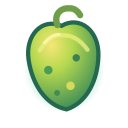
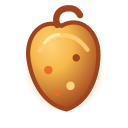
genesis_0.3_Cap7V14

diff --git a/src/game/chapter07/macacoEsporos.test.js b/src/game/chapter07/macacoEsporos.test.js
@@ -17,6 +17,9 @@ const troop = (id, x, row = 1, extra = {}) => ({ id, x, y: row * 96 + 48, row, h
 describe("Macaco de Esporos", () => {
   it("registers the exact low-health support configuration", () => {
     expect(ENEMIES.macacoEsporos).toMatchObject({ hp: 30, speed: 25, damage: 3, attackEveryMs: 1450, baseDamage: 7, threat: 28, canAttackConvoy: false });
+    expect(ENEMIES.macacoEsporos.animationFrameMs).toEqual({ idle: 160, walking: 140 });
+    expect(ENEMIES.macacoEsporos.attackVisual).toEqual({ durationMs: 760, impactMs: 430 });
+    expect(ENEMIES.macacoEsporos.sporeFruit).toMatchObject({ firstCastDelayMs: 3800, cooldownMs: 9000, interruptCooldownMs: 3000, castDurationMs: 1280, releaseMs: 640, projectileSpeed: 360, confusionMinMs: 1600, confusionMaxMs: 1900, postConfusionImmunityMs: 2800 });
     expect(ENEMIES.macacoEsporos.assetStates).toEqual(["idle", "walking", "attack", "sporeThrow"]);
   });
   it("prefers an operational escort with the largest cluster, then a grouped target", () => {
@@ -33,38 +36,54 @@ describe("Macaco de Esporos", () => {
     units[3].sporeConfusedUntil = 9999;
     expect(selectMacacoEsporosTarget(r, enemy, ENEMIES.macacoEsporos).id).not.toBe("three-b");
   });
-  it("uses a non-additive confusion state that disables attacks and operational escort", () => {
+  it("uses a non-additive confusion state with a real post-confusion immunity window", () => {
     const session = { elapsed: 100, chapterSevenMetrics: {} }; const target = troop("escort", 100, 1, { attackReadyAt: 150 });
-    expect(applySporeConfusion(session, target, 1800)).toBe(true);
+    expect(applySporeConfusion(session, target, 1800, 2800)).toBe(true);
+    expect(target).toMatchObject({ sporeConfusedUntil: 1900, sporeImmunityUntil: 4700 });
     expect(isSporeConfused(target, 500)).toBe(true); expect(isEscortOperational(target, { elapsed: 500 })).toBe(false);
-    const until = target.sporeConfusedUntil; applySporeConfusion(session, target, 100); expect(target.sporeConfusedUntil).toBe(until);
+    const until = target.sporeConfusedUntil; session.elapsed = 900;
+    expect(applySporeConfusion(session, target, 100, 2800)).toBe(false);
+    expect(target.sporeConfusedUntil).toBe(until);
+  });
+  it("prevents three nearby Macacos from maintaining a permanent confusion lock", () => {
+    const session = { elapsed: 0, chapterSevenMetrics: {} }; const target = troop("escort", 100);
+    expect(applySporeConfusion(session, target, 1800, 2800)).toBe(true);
+    for (const elapsed of [900, 2500]) {
+      session.elapsed = elapsed;
+      expect(applySporeConfusion(session, target, 1800, 2800)).toBe(false);
+    }
+    expect(target.sporeConfusedUntil).toBe(1800);
+    session.elapsed = 4600;
+    expect(applySporeConfusion(session, target, 1800, 2800)).toBe(true);
   });
   it("applies an AoE once, ignores structures and emits a cloud impact", () => {
     const units = [troop("a", 200), troop("adjacent", 310), troop("structure", 204, 1, { structure: true })]; const r = runtime(units, 1000);
     r.session.sporeFruits.push({ id: "fruit", active: true, targetX: 200, targetY: 144, targetRow: 1, impactAt: 900, radiusTiles: 1.15, confusionMinMs: 1800, confusionMaxMs: 2200, cloudVisualMs: 950 });
     const events = []; updateSporeField(r.session, events);
-    expect(units[0].sporeConfusedUntil).toBe(3000); expect(units[1].sporeConfusedUntil).toBe(3000); expect(units[2].sporeConfusedUntil).toBeUndefined();
+    expect(units[0].sporeConfusedUntil).toBe(3000); expect(units[1].sporeConfusedUntil).toBe(3000); expect(units[0].sporeImmunityUntil).toBe(5800); expect(units[2].sporeConfusedUntil).toBeUndefined();
     expect(events.some((event) => event.type === "sporeFruitImpact")).toBe(true); expect(r.session.sporeClouds).toHaveLength(1);
   });
   it("starts casting after the initial delay and cancels a death-before-release naturally", () => {
     const r = runtime([troop("escort", 260)], 0); const config = ENEMIES.macacoEsporos;
     const enemy = { id: "m", x: 500, y: 144, row: 1, dead: false, moving: true, attackReadyAt: Infinity, ...macacoEsporosBehavior.createState(r.session, {}, config) };
-    r.elapsed = 2800; r.session.elapsed = 2800;
+    r.elapsed = 3800; r.session.elapsed = 3800;
     macacoEsporosBehavior.update(r, enemy, config, 16, []); expect(enemy.sporeState).toBe("sporeCast");
     enemy.dead = true; macacoEsporosBehavior.update(r, enemy, config, 16, []); expect(r.session.sporeFruits).toHaveLength(0);
   });
   it("locks the ground position, releases after target death, and cancels a stun before release", () => {
     const r = runtime([troop("escort", 260)], 0); const config = ENEMIES.macacoEsporos;
     const enemy = { id: "m", x: 500, y: 144, row: 1, dead: false, moving: true, attackReadyAt: Infinity, ...macacoEsporosBehavior.createState(r.session, {}, config) };
-    r.elapsed = r.session.elapsed = 2800; macacoEsporosBehavior.update(r, enemy, config, 16, []);
-    const lockedX = enemy.sporeTargetX; r.session.troops[0].dead = true;
-    r.elapsed = r.session.elapsed = 3180; macacoEsporosBehavior.update(r, enemy, config, 16, []);
+    r.elapsed = r.session.elapsed = 3800; macacoEsporosBehavior.update(r, enemy, config, 16, []);
+    const lockedX = enemy.sporeTargetX;
+    r.elapsed = r.session.elapsed = 4439; macacoEsporosBehavior.update(r, enemy, config, 16, []);
+    expect(r.session.sporeFruits).toHaveLength(0);
+    r.elapsed = r.session.elapsed = 4440; macacoEsporosBehavior.update(r, enemy, config, 16, []);
     expect(r.session.sporeFruits[0]).toMatchObject({ targetX: lockedX, targetRow: 1, releaseVisual: { frame: 4 } });
     expect(r.session.sporeFruits[0].startX).toBe(enemy.x - 25);
     expect(r.session.sporeFruits[0].startY).toBe(enemy.y - 46);
     const interrupted = { ...enemy, sporeState: "sporeCast", sporeReleased: false, stunnedUntil: 4000, sporeTargetId: "escort", sporeTargetX: 260, sporeTargetY: 144, sporeTargetRow: 1 };
     r.elapsed = r.session.elapsed = 3500; macacoEsporosBehavior.update(r, interrupted, config, 16, []);
-    expect(interrupted.sporeState).toBe("walking"); expect(interrupted.sporeReadyAt).toBe(5700);
+    expect(interrupted.sporeState).toBe("walking"); expect(interrupted.sporeReadyAt).toBe(6500);
   });
   it("ships 32 distinct transparent 512px runtime frames and anchors", async () => {
     const root = path.resolve(process.cwd(), "src/game/assets/enemy/macacoEsporos"); const hashes = new Set();

diff --git a/src/game/chapter07/sporeFruitRenderer.js b/src/game/chapter07/sporeFruitRenderer.js
@@ -1,6 +1,6 @@
 import { CELL } from "../visualGeometry.js";
 
-const FRAME_MS = 65;
+export const SPORE_FRUIT_FRAME_MS = 110;
 const TRAJECTORY_ARC_PX = CELL.width * 0.58;
 const FRUIT_SIZE = 42;
 
@@ -35,10 +35,11 @@ function getQualityParticleCount(settings = {}) {
 
 export function drawSporeFruit(ctx, fruit, elapsed, frames = [], settings = {}) {
   const { progress, x, y } = getSporeFruitPosition(fruit, elapsed);
-  const frame = frames[Math.min(frames.length - 1, Math.floor(Math.max(0, elapsed - fruit.startedAt) / FRAME_MS))]
+  const frame = frames.length
+    ? frames[Math.floor(Math.max(0, elapsed - fruit.startedAt) / SPORE_FRUIT_FRAME_MS) % frames.length]
     || frames[0]
-    || null;
-  const rotation = settings.reduceMotion ? 0 : progress * Math.PI * 3.5;
+    : null;
+  const rotation = settings.reduceMotion ? 0 : progress * Math.PI * 2.5;
   const seed = fruit.seed ?? hashSeed(fruit.id);
 
   ctx.save();
@@ -48,8 +49,8 @@ export function drawSporeFruit(ctx, fruit, elapsed, frames = [], settings = {}) 
   if (frame) {
     ctx.drawImage(frame, -FRUIT_SIZE / 2, -FRUIT_SIZE / 2, FRUIT_SIZE, FRUIT_SIZE);
   } else {
-    ctx.fillStyle = "#d9cf63";
-    ctx.strokeStyle = "#237d69";
+    ctx.fillStyle = "#E9913A";
+    ctx.strokeStyle = "#9F431F";
     ctx.lineWidth = 2;
     ctx.beginPath(); ctx.ellipse(0, 0, 11, 16, 0, 0, Math.PI * 2); ctx.fill(); ctx.stroke();
   }
@@ -59,7 +60,7 @@ export function drawSporeFruit(ctx, fruit, elapsed, frames = [], settings = {}) 
   if (particles) {
     ctx.save();
     ctx.globalAlpha = 0.28 * (1 - progress);
-    ctx.fillStyle = "#81d8a5";
+    ctx.fillStyle = "#F6A83C";
     for (let index = 0; index < particles; index += 1) {
       const angle = ((seed % 360) * Math.PI / 180) + index * 2.1;
       const distance = 16 + index * 7 + progress * 8;
@@ -81,9 +82,9 @@ export function drawSporeClouds(ctx, clouds = [], elapsed, settings = {}) {
     const progress = clamp01((elapsed - cloud.startedAt) / Math.max(1, cloud.endsAt - cloud.startedAt));
     ctx.save();
     ctx.globalAlpha = 0.42 * (1 - progress);
-    ctx.fillStyle = "#e9913a";
     for (let index = 0; index < 8; index += 1) {
       const angle = index * Math.PI / 4;
+      ctx.fillStyle = index % 2 ? "#F6A83C" : "#E9913A";
       ctx.beginPath();
       ctx.arc(cloud.x + Math.cos(angle) * cloud.radius * .45, cloud.y + Math.sin(angle) * cloud.radius * .25,
         11 + progress * 14, 0, Math.PI * 2);
@@ -98,8 +99,8 @@ export function drawSporeFruitEmissive(ctx, fruits = [], elapsed, settings = {})
     const { progress, x, y } = getSporeFruitPosition(fruit, elapsed);
     ctx.save();
     ctx.globalAlpha = 0.34 * (1 - progress);
-    ctx.fillStyle = "#58d6ba";
-    ctx.shadowColor = "#58d6ba";
+    ctx.fillStyle = "#F59E42";
+    ctx.shadowColor = "#E86F2A";
     ctx.shadowBlur = settings.reduceMotion ? 4 : 10;
     ctx.beginPath(); ctx.arc(x, y, settings.reduceMotion ? 7 : 9, 0, Math.PI * 2); ctx.fill();
     ctx.restore();

diff --git a/src/game/chapter07/sporeField.js b/src/game/chapter07/sporeField.js
@@ -2,14 +2,15 @@ import { CELL } from "../visualGeometry.js";
 
 export const isSporeConfused = (troop, elapsed) => Boolean(troop && elapsed < (troop.sporeConfusedUntil || 0));
 
-export function applySporeConfusion(session, troop, durationMs) {
+export function applySporeConfusion(session, troop, durationMs, postConfusionImmunityMs = 2800) {
   if (!troop || troop.dead || troop.structure || durationMs <= 0) return false;
   const now = session.elapsed;
   const previous = troop.sporeConfusedUntil || 0;
-  // Effects never stack additively: a second fruit only refreshes the longer end time.
-  const next = Math.max(previous, now + durationMs);
-  const extension = Math.max(0, next - Math.max(previous, now));
+  if (now < previous || now < (troop.sporeImmunityUntil || 0)) return false;
+  const next = now + durationMs;
+  const extension = Math.max(0, next - now);
   troop.sporeConfusedUntil = next;
+  troop.sporeImmunityUntil = next + Math.max(0, postConfusionImmunityMs);
   for (const key of ["attackReadyAt", "attackBusyUntil", "attackReleaseAt", "stateEndsAt", "mineReadyAt", "gunReadyAt"]) {
     if (Number.isFinite(troop[key]) && troop[key] > now) troop[key] += extension;
   }
@@ -30,7 +31,8 @@ export function launchSporeFruit(session, enemy, target, config, createId, event
     targetRow: target.row, startedAt: session.elapsed, impactAt: session.elapsed + travelMs,
     releaseVisual: { frame: releaseVisual.frame ?? 4 },
     radiusTiles: spell.radiusTiles, confusionMinMs: spell.confusionMinMs,
-    confusionMaxMs: spell.confusionMaxMs, cloudVisualMs: spell.cloudVisualMs,
+    confusionMaxMs: spell.confusionMaxMs, postConfusionImmunityMs: spell.postConfusionImmunityMs,
+    cloudVisualMs: spell.cloudVisualMs,
   });
   session.chapterSevenMetrics.sporeFruitsThrown += 1;
   events.push({ type: "sporeFruitThrown", sourceEnemyId: enemy.id, targetTroopId: target.id, x: target.x, y: target.y });
@@ -47,7 +49,7 @@ export function updateSporeField(session, events) {
     let newlyConfused = 0;
     for (const troop of affected) {
       const duration = fruit.confusionMinMs + session.rng() * (fruit.confusionMaxMs - fruit.confusionMinMs);
-      if (applySporeConfusion(session, troop, duration)) newlyConfused += 1;
+      if (applySporeConfusion(session, troop, duration, fruit.postConfusionImmunityMs)) newlyConfused += 1;
     }
     session.chapterSevenMetrics.sporeFruitsHit += 1;
     session.chapterSevenMetrics.sporeTroopsConfused += newlyConfused;

diff --git a/src/game/chapter07/sporeFruitRenderer.test.js b/src/game/chapter07/sporeFruitRenderer.test.js
@@ -4,7 +4,9 @@ import sharp from "sharp";
 import { describe, expect, it, vi } from "vitest";
 import {
   drawSporeFruit,
+  drawSporeClouds,
   getSporeFruitPosition,
+  SPORE_FRUIT_FRAME_MS,
 } from "./sporeFruitRenderer.js";
 
 const fruit = { id: "sporeFruit-1", seed: 7, startX: 100, startY: 120, targetX: 300, targetY: 180, startedAt: 1000, impactAt: 2000 };
@@ -27,14 +29,28 @@ describe("spore fruit renderer", () => {
 
   it("selects animated frames approximately every 65ms and remains visible at low quality", () => {
     const ctx = context(); const frames = Array.from({ length: 8 }, (_, index) => ({ index }));
-    drawSporeFruit(ctx, fruit, 1065, frames, { quality: "low" });
+    drawSporeFruit(ctx, fruit, 1110, frames, { quality: "low" });
     expect(ctx.drawImage).toHaveBeenCalledWith(frames[1], -21, -21, 42, 42);
+  });
+
+  it("loops the fruit animation throughout a long flight", () => {
+    const ctx = context(); const frames = Array.from({ length: 8 }, (_, index) => ({ index }));
+    drawSporeFruit(ctx, fruit, fruit.startedAt + SPORE_FRUIT_FRAME_MS * 8, frames, { quality: "low" });
+    expect(ctx.drawImage).toHaveBeenCalledWith(frames[0], -21, -21, 42, 42);
+    drawSporeFruit(ctx, fruit, fruit.startedAt + SPORE_FRUIT_FRAME_MS * 9, frames, { quality: "low" });
+    expect(ctx.drawImage).toHaveBeenLastCalledWith(frames[1], -21, -21, 42, 42);
   });
 
   it("keeps the sprite in the effect layer contract even when bloom is disabled", () => {
     const ctx = context();
     drawSporeFruit(ctx, fruit, 1300, [{ id: "fruit-frame" }], { quality: "medium", bloom: false });
     expect(ctx.drawImage).toHaveBeenCalledTimes(1);
+  });
+
+  it("draws the orange impact cloud without depending on loop state outside the cloud", () => {
+    const ctx = context();
+    expect(() => drawSporeClouds(ctx, [{ x: 200, y: 140, radius: 100, startedAt: 0, endsAt: 950 }], 250)).not.toThrow();
+    expect(ctx.arc).toHaveBeenCalledTimes(8);
   });
 
   it("ships eight transparent 128px flying frames", async () => {

diff --git a/src/game/enemies/chapter07/macacoEsporos.js b/src/game/enemies/chapter07/macacoEsporos.js
@@ -10,13 +10,17 @@ export function selectMacacoEsporosTarget(runtime, enemy, config) {
     && Math.abs(troop.row - enemy.row) <= 2
     && Math.hypot(troop.x - enemy.x, troop.y - enemy.y) <= spell.rangeTiles * CELL.width);
   const clusterCount = (troop) => candidates.filter((other) => Math.hypot(other.x - troop.x, other.y - troop.y) <= spell.radiusTiles * CELL.width).length;
-  const useful = candidates.filter((troop) => (troop.sporeConfusedUntil || 0) <= runtime.elapsed);
+  const useful = candidates.filter((troop) => (
+    (troop.sporeConfusedUntil || 0) <= runtime.elapsed
+      && (troop.sporeImmunityUntil || 0) <= runtime.elapsed
+  ));
   return (useful.length ? useful : candidates).sort((a, b) => {
     const clusterA = clusterCount(a); const clusterB = clusterCount(b);
     const pa = runtime.escortIds().includes(a.id) ? 0 : clusterA >= 2 ? 1 : 2;
     const pb = runtime.escortIds().includes(b.id) ? 0 : clusterB >= 2 ? 1 : 2;
     return pa - pb || clusterB - clusterA
       || Number((a.sporeConfusedUntil || 0) > runtime.elapsed) - Number((b.sporeConfusedUntil || 0) > runtime.elapsed)
+      || Number((a.sporeImmunityUntil || 0) > runtime.elapsed) - Number((b.sporeImmunityUntil || 0) > runtime.elapsed)
       || Math.hypot(a.x - enemy.x, a.y - enemy.y) - Math.hypot(b.x - enemy.x, b.y - enemy.y)
       || String(a.id).localeCompare(String(b.id));
   })[0] || null;
@@ -51,7 +55,7 @@ export const macacoEsporosBehavior = enemyBehavior({
       }
       return true;
     }
-    if (enemy.sporeState === "sporeCast") {
+    if (enemy.sporeState === "sporeCast" || enemy.sporeState === "released") {
       enemy.moving = false;
       if (!enemy.sporeReleased && runtime.elapsed >= enemy.sporeStateStartedAt + config.sporeFruit.releaseMs) {
         launchSporeFruit(runtime.session, enemy, { id: enemy.sporeTargetId, x: enemy.sporeTargetX, y: enemy.sporeTargetY, row: enemy.sporeTargetRow }, config, runtime.createId, events);

diff --git a/src/game/chapterSevenEnemies.js b/src/game/chapterSevenEnemies.js
@@ -28,9 +28,9 @@ export const CHAPTER_SEVEN_ENEMIES = Object.freeze({
   }),
   macacoEsporos: enemy("macacoEsporos", "Macaco de Esporos", "Suporte / controle", {
     hp: 30, speed: 25, damage: 3, attackEveryMs: 1450, baseDamage: 7, threat: 28, scale: .98,
-    canAttackConvoy: false, attackRangeTiles: .62, animationFrameMs: { idle: 120, walking: 100 },
-    attackVisual: { durationMs: 560, impactMs: 280 },
-    sporeFruit: { firstCastDelayMs: 2800, cooldownMs: 6500, interruptCooldownMs: 2200, rangeTiles: 4.25, castDurationMs: 760, releaseMs: 380, projectileSpeed: 520, radiusTiles: 1.15, confusionMinMs: 1800, confusionMaxMs: 2200, cloudVisualMs: 950, directDamage: 0, releaseVisual: { frame: 4, offsetX: -25, offsetY: -46 } },
+    canAttackConvoy: false, attackRangeTiles: .62, animationFrameMs: { idle: 160, walking: 140 },
+    attackVisual: { durationMs: 760, impactMs: 430 },
+    sporeFruit: { firstCastDelayMs: 3800, cooldownMs: 9000, interruptCooldownMs: 3000, rangeTiles: 4.25, castDurationMs: 1280, releaseMs: 640, projectileSpeed: 360, radiusTiles: 1.15, confusionMinMs: 1600, confusionMaxMs: 1900, postConfusionImmunityMs: 2800, cloudVisualMs: 950, directDamage: 0, releaseVisual: { frame: 4, offsetX: -25, offsetY: -46 } },
     effectDependencies: ["sporeFruit"],
     assetStates: ["idle", "walking", "attack", "sporeThrow"],
     color: "#23c7bd", description: "Primata alienígena que lança frutos de esporo e confunde a escolta.",

diff --git a/src/game/enemyAnchors.generated.js b/src/game/enemyAnchors.generated.js
@@ -11,9 +11,9 @@ export const ENEMY_FRAME_ANCHORS = {
     "walking": repeat({ x: 0.5015, y: 0.9297 }, 8),
   },
   "macacoEsporos": {
-    "attack": repeat({ x: 0.5188, y: 0.8984 }, 8),
-    "idle": repeat({ x: 0.4931, y: 0.9023 }, 8),
-    "sporeThrow": repeat({ x: 0.5101, y: 0.9004 }, 8),
-    "walking": repeat({ x: 0.4893, y: 0.9082 }, 8),
+    "attack": repeat({ x: 0.4997, y: 0.9023 }, 8),
+    "idle": repeat({ x: 0.4997, y: 0.9023 }, 8),
+    "sporeThrow": repeat({ x: 0.4997, y: 0.9023 }, 8),
+    "walking": repeat({ x: 0.4997, y: 0.9023 }, 8),
   },
 };
